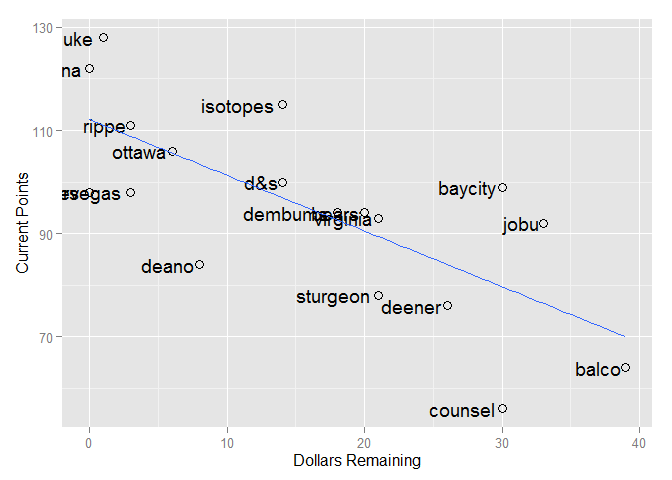
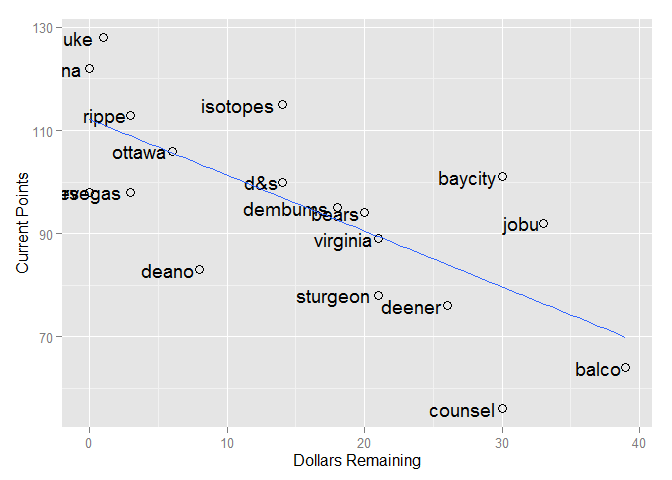
corrected name

diff --git a/fantasy2015.html b/fantasy2015.html
@@ -72,14 +72,14 @@ img {
 ## isotopes     246   14          3             4.67      12
 ## rippe        257    3          3             1.00       1
 ## ottawa       254    6          1             6.00       6
-## d&amp;s          246   14          8             1.75       7
 ## baycity      230   30          4             7.50      27
+## d&amp;s          246   14          8             1.75       7
 ## pk dodgers   260    0          0              NaN       1
 ## bellevegas   257    3          3             1.00       1
 ## dembums      242   18          5             3.60      14
 ## bears        240   20          2            10.00      19
-## virginia     239   21          4             5.25      18
 ## jobu         227   33          1            33.00      33
+## virginia     239   21          4             5.25      18
 ## deano        252    8          6             1.33       3
 ## sturgeon     239   21          0              Inf      22
 ## deener       234   26         10             2.60      17
@@ -103,14 +103,14 @@ img {
 ## isotopes   849 224 852 117.8 0.262 3.70 1.25 1151 64 81   246   14
 ## rippe      998 211 870 159.0 0.270 3.86 1.26 1121 60 76   257    3
 ## ottawa     862 216 850 134.0 0.257 3.80 1.25 1205 66 83   254    6
-## d&amp;s        755 176 740  93.3 0.260 3.42 1.19 1379 54 87   246   14
 ## baycity    862 220 866 119.0 0.257 3.84 1.26 1212 88 73   230   30
+## d&amp;s        755 176 740  93.3 0.260 3.42 1.19 1379 54 87   246   14
 ## pk dodgers 741 157 692 145.0 0.257 3.46 1.20 1238 65 87   260    0
 ## bellevegas 921 266 952  95.9 0.258 3.92 1.27 1252 41 82   257    3
 ## dembums    818 223 822  96.9 0.267 3.82 1.25 1313 48 68   242   18
 ## bears      830 214 799 129.8 0.253 3.73 1.24 1276 47 87   240   20
-## virginia   905 231 883  84.8 0.261 3.82 1.27  810 63 50   239   21
 ## jobu       888 162 745 164.0 0.258 4.12 1.30 1196 68 89   227   33
+## virginia   905 231 883  84.8 0.261 3.91 1.28  930 63 60   239   21
 ## deano      843 219 848 101.0 0.269 3.75 1.26 1053 46 57   252    8
 ## sturgeon   772 202 788 117.0 0.260 4.07 1.32 1283 42 89   239   21
 ## deener     731 161 718 126.2 0.261 3.72 1.25 1168 52 65   234   26
@@ -123,17 +123,17 @@ img {
 ## marmaduke   17.0     15    15.0     16     9.0          128
 ## pasadena    14.0     17    17.0     10     4.5          122
 ## isotopes     8.5     14    12.0      8    14.5          115
-## rippe       18.0      8    14.0     17    18.0          111
+## rippe       18.0      8    14.0     17    18.0          113
 ## ottawa      10.5     10    11.0     13     4.5          106
+## baycity     10.5     12    13.0      9     4.5          101
 ## d&amp;s          3.0      4     3.0      2    10.5          100
-## baycity     10.5     12    13.0      9     4.5           99
 ## pk dodgers   2.0      1     1.0     15     4.5           98
 ## bellevegas  16.0     18    18.0      3     7.5           98
-## dembums      5.0     13     9.0      4    16.0           94
+## dembums      5.0     13     9.0      4    16.0           95
 ## bears        6.0      9     7.0     12     1.0           94
-## virginia    15.0     16    16.0      1    12.5           93
 ## jobu        13.0      3     4.0     18     7.5           92
-## deano        7.0     11    10.0      5    17.0           84
+## virginia    15.0     16    16.0      1    12.5           89
+## deano        7.0     11    10.0      5    17.0           83
 ## sturgeon     4.0      7     5.5      7    10.5           78
 ## deener       1.0      2     2.0     11    12.5           76
 ## balco       12.0      5     8.0     14     2.0           64
@@ -142,28 +142,28 @@ img {
 <div id="pitching-points" class="section level1">
 <h1>Pitching Points</h1>
 <pre><code>##            ERA_pts WHIP_pts K_pts SV_pts W_pts total_points
-## marmaduke     15.0     15.0     5   11.5   9.0          128
-## pasadena      16.0     16.0    14    1.0  12.5          122
-## isotopes      14.0     14.0     7   13.0  10.0          115
-## rippe          6.0      6.0     6   10.0   8.0          111
-## ottawa        10.0     10.0    10   15.0  12.5          106
-## d&amp;s           18.0     18.0    18    9.0  15.0          100
-## baycity        7.0      7.0    11   18.0   7.0           99
-## pk dodgers    17.0     17.0    12   14.0  15.0           98
-## bellevegas     5.0      5.0    13    2.0  11.0           98
-## dembums        8.5      8.5    17    7.0   6.0           94
-## bears         12.0     12.0    15    5.5  15.0           94
-## virginia       8.5      8.5     1   11.5   3.0           93
-## jobu           2.0      2.0     9   16.0  17.5           92
-## deano         11.0     11.0     4    4.0   4.0           84
-## sturgeon       4.0      4.0    16    3.0  17.5           78
-## deener        13.0     13.0     8    8.0   5.0           76
-## balco          1.0      1.0     3   17.0   1.0           64
-## counsel        3.0      3.0     2    5.5   2.0           56</code></pre>
+## marmaduke       15       15     5   11.5   9.0          128
+## pasadena        16       16    14    1.0  12.5          122
+## isotopes        14       14     7   13.0  10.0          115
+## rippe            7        7     6   10.0   8.0          113
+## ottawa          10       10    10   15.0  12.5          106
+## baycity          8        8    11   18.0   7.0          101
+## d&amp;s             18       18    18    9.0  15.0          100
+## pk dodgers      17       17    12   14.0  15.0           98
+## bellevegas       5        5    13    2.0  11.0           98
+## dembums          9        9    17    7.0   6.0           95
+## bears           12       12    15    5.5  15.0           94
+## jobu             2        2     9   16.0  17.5           92
+## virginia         6        6     1   11.5   4.0           89
+## deano           11       11     4    4.0   3.0           83
+## sturgeon         4        4    16    3.0  17.5           78
+## deener          13       13     8    8.0   5.0           76
+## balco            1        1     3   17.0   1.0           64
+## counsel          3        3     2    5.5   2.0           56</code></pre>
 </div>
 <div id="scatter-of-remaining-dollars-vs.current-points" class="section level1">
 <h1>Scatter of Remaining Dollars vs. Current Points</h1>
[2 lines of base64/hex data omitted]
 </div>
 <div id="top-50-hitter-targets" class="section level1">
 <h1>Top 50 Hitter Targets</h1>
@@ -294,7 +294,6 @@ img {
 ## 136       Mark Buehrle 189 4.45 1.34 12  0 115         3.16
 ## 137         Vidal Nuno 144 4.01 1.27  8  0 116         2.96
 ## 138   Jorge de la Rosa 192 4.48 1.40 11  0 148         2.55
-## 140     Nathan Eovaldi 173 4.43 1.33 10  0 120         2.22
 ## 141   Justin Masterson 173 4.25 1.43 11  0 133         1.91
 ## 142    Hector Santiago 145 4.07 1.36  9  0 120         1.83
 ## 143     Yusmeiro Petit  88 3.05 1.09  5  0  86         1.79
@@ -325,7 +324,8 @@ img {
 ## 183    Miguel Gonzalez 134 4.56 1.36  8  0  93        -2.13
 ## 184       Jimmy Nelson 111 4.24 1.35  6  0  99        -2.28
 ## 185  Carlos Villanueva  65 3.49 1.19  3  6  57        -2.31
-## 186       Aaron Harang 163 4.73 1.39  7  0 124        -2.35</code></pre>
+## 186       Aaron Harang 163 4.73 1.39  7  0 124        -2.35
+## 187       Joel Peralta  55 2.94 1.12  3  4  57        -2.36</code></pre>
 </div>
 
 

diff --git a/fantasy2015.md b/fantasy2015.md
@@ -13,14 +13,14 @@
 ## isotopes     246   14          3             4.67      12
 ## rippe        257    3          3             1.00       1
 ## ottawa       254    6          1             6.00       6
-## d&s          246   14          8             1.75       7
 ## baycity      230   30          4             7.50      27
+## d&s          246   14          8             1.75       7
 ## pk dodgers   260    0          0              NaN       1
 ## bellevegas   257    3          3             1.00       1
 ## dembums      242   18          5             3.60      14
 ## bears        240   20          2            10.00      19
-## virginia     239   21          4             5.25      18
 ## jobu         227   33          1            33.00      33
+## virginia     239   21          4             5.25      18
 ## deano        252    8          6             1.33       3
 ## sturgeon     239   21          0              Inf      22
 ## deener       234   26         10             2.60      17
@@ -40,14 +40,14 @@
 ## isotopes   849 224 852 117.8 0.262 3.70 1.25 1151 64 81   246   14
 ## rippe      998 211 870 159.0 0.270 3.86 1.26 1121 60 76   257    3
 ## ottawa     862 216 850 134.0 0.257 3.80 1.25 1205 66 83   254    6
-## d&s        755 176 740  93.3 0.260 3.42 1.19 1379 54 87   246   14
 ## baycity    862 220 866 119.0 0.257 3.84 1.26 1212 88 73   230   30
+## d&s        755 176 740  93.3 0.260 3.42 1.19 1379 54 87   246   14
 ## pk dodgers 741 157 692 145.0 0.257 3.46 1.20 1238 65 87   260    0
 ## bellevegas 921 266 952  95.9 0.258 3.92 1.27 1252 41 82   257    3
 ## dembums    818 223 822  96.9 0.267 3.82 1.25 1313 48 68   242   18
 ## bears      830 214 799 129.8 0.253 3.73 1.24 1276 47 87   240   20
-## virginia   905 231 883  84.8 0.261 3.82 1.27  810 63 50   239   21
 ## jobu       888 162 745 164.0 0.258 4.12 1.30 1196 68 89   227   33
+## virginia   905 231 883  84.8 0.261 3.91 1.28  930 63 60   239   21
 ## deano      843 219 848 101.0 0.269 3.75 1.26 1053 46 57   252    8
 ## sturgeon   772 202 788 117.0 0.260 4.07 1.32 1283 42 89   239   21
 ## deener     731 161 718 126.2 0.261 3.72 1.25 1168 52 65   234   26
@@ -62,17 +62,17 @@
 ## marmaduke   17.0     15    15.0     16     9.0          128
 ## pasadena    14.0     17    17.0     10     4.5          122
 ## isotopes     8.5     14    12.0      8    14.5          115
-## rippe       18.0      8    14.0     17    18.0          111
+## rippe       18.0      8    14.0     17    18.0          113
 ## ottawa      10.5     10    11.0     13     4.5          106
+## baycity     10.5     12    13.0      9     4.5          101
 ## d&s          3.0      4     3.0      2    10.5          100
-## baycity     10.5     12    13.0      9     4.5           99
 ## pk dodgers   2.0      1     1.0     15     4.5           98
 ## bellevegas  16.0     18    18.0      3     7.5           98
-## dembums      5.0     13     9.0      4    16.0           94
+## dembums      5.0     13     9.0      4    16.0           95
 ## bears        6.0      9     7.0     12     1.0           94
-## virginia    15.0     16    16.0      1    12.5           93
 ## jobu        13.0      3     4.0     18     7.5           92
-## deano        7.0     11    10.0      5    17.0           84
+## virginia    15.0     16    16.0      1    12.5           89
+## deano        7.0     11    10.0      5    17.0           83
 ## sturgeon     4.0      7     5.5      7    10.5           78
 ## deener       1.0      2     2.0     11    12.5           76
 ## balco       12.0      5     8.0     14     2.0           64
@@ -83,24 +83,24 @@
 
 ```
 ##            ERA_pts WHIP_pts K_pts SV_pts W_pts total_points
-## marmaduke     15.0     15.0     5   11.5   9.0          128
-## pasadena      16.0     16.0    14    1.0  12.5          122
-## isotopes      14.0     14.0     7   13.0  10.0          115
-## rippe          6.0      6.0     6   10.0   8.0          111
-## ottawa        10.0     10.0    10   15.0  12.5          106
-## d&s           18.0     18.0    18    9.0  15.0          100
-## baycity        7.0      7.0    11   18.0   7.0           99
-## pk dodgers    17.0     17.0    12   14.0  15.0           98
-## bellevegas     5.0      5.0    13    2.0  11.0           98
-## dembums        8.5      8.5    17    7.0   6.0           94
-## bears         12.0     12.0    15    5.5  15.0           94
-## virginia       8.5      8.5     1   11.5   3.0           93
-## jobu           2.0      2.0     9   16.0  17.5           92
-## deano         11.0     11.0     4    4.0   4.0           84
-## sturgeon       4.0      4.0    16    3.0  17.5           78
-## deener        13.0     13.0     8    8.0   5.0           76
-## balco          1.0      1.0     3   17.0   1.0           64
-## counsel        3.0      3.0     2    5.5   2.0           56
+## marmaduke       15       15     5   11.5   9.0          128
+## pasadena        16       16    14    1.0  12.5          122
+## isotopes        14       14     7   13.0  10.0          115
+## rippe            7        7     6   10.0   8.0          113
+## ottawa          10       10    10   15.0  12.5          106
+## baycity          8        8    11   18.0   7.0          101
+## d&s             18       18    18    9.0  15.0          100
+## pk dodgers      17       17    12   14.0  15.0           98
+## bellevegas       5        5    13    2.0  11.0           98
+## dembums          9        9    17    7.0   6.0           95
+## bears           12       12    15    5.5  15.0           94
+## jobu             2        2     9   16.0  17.5           92
+## virginia         6        6     1   11.5   4.0           89
+## deano           11       11     4    4.0   3.0           83
+## sturgeon         4        4    16    3.0  17.5           78
+## deener          13       13     8    8.0   5.0           76
+## balco            1        1     3   17.0   1.0           64
+## counsel          3        3     2    5.5   2.0           56
 ```
 
 #Scatter of Remaining Dollars vs. Current Points
@@ -240,7 +240,6 @@
 ## 136       Mark Buehrle 189 4.45 1.34 12  0 115         3.16
 ## 137         Vidal Nuno 144 4.01 1.27  8  0 116         2.96
 ## 138   Jorge de la Rosa 192 4.48 1.40 11  0 148         2.55
-## 140     Nathan Eovaldi 173 4.43 1.33 10  0 120         2.22
 ## 141   Justin Masterson 173 4.25 1.43 11  0 133         1.91
 ## 142    Hector Santiago 145 4.07 1.36  9  0 120         1.83
 ## 143     Yusmeiro Petit  88 3.05 1.09  5  0  86         1.79
@@ -272,4 +271,5 @@
 ## 184       Jimmy Nelson 111 4.24 1.35  6  0  99        -2.28
 ## 185  Carlos Villanueva  65 3.49 1.19  3  6  57        -2.31
 ## 186       Aaron Harang 163 4.73 1.39  7  0 124        -2.35
+## 187       Joel Peralta  55 2.94 1.12  3  4  57        -2.36
 ```
